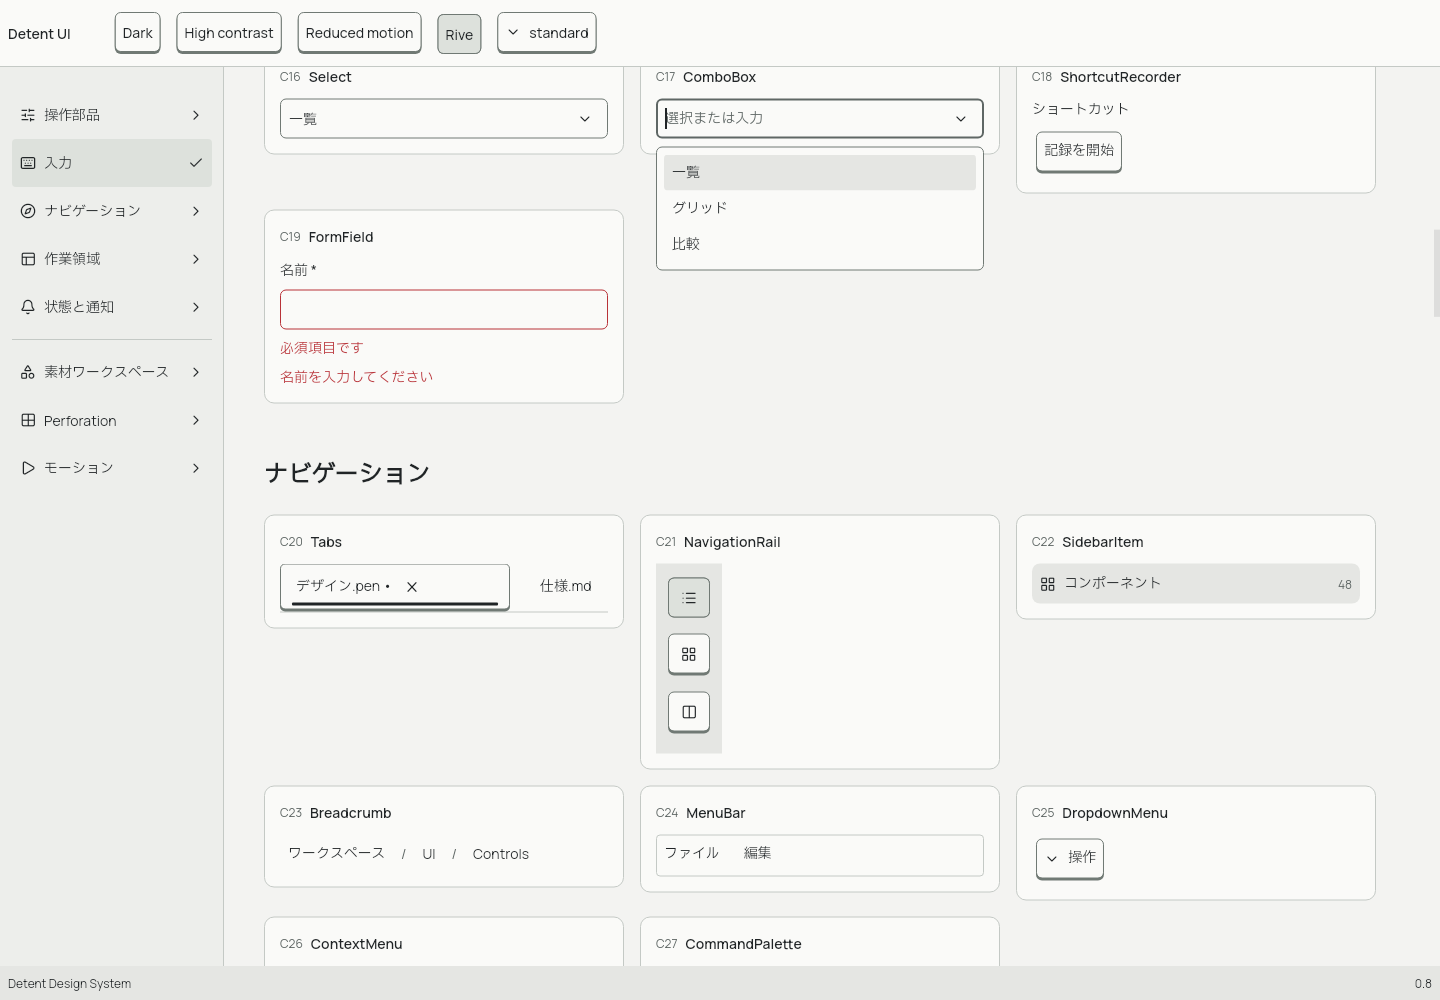
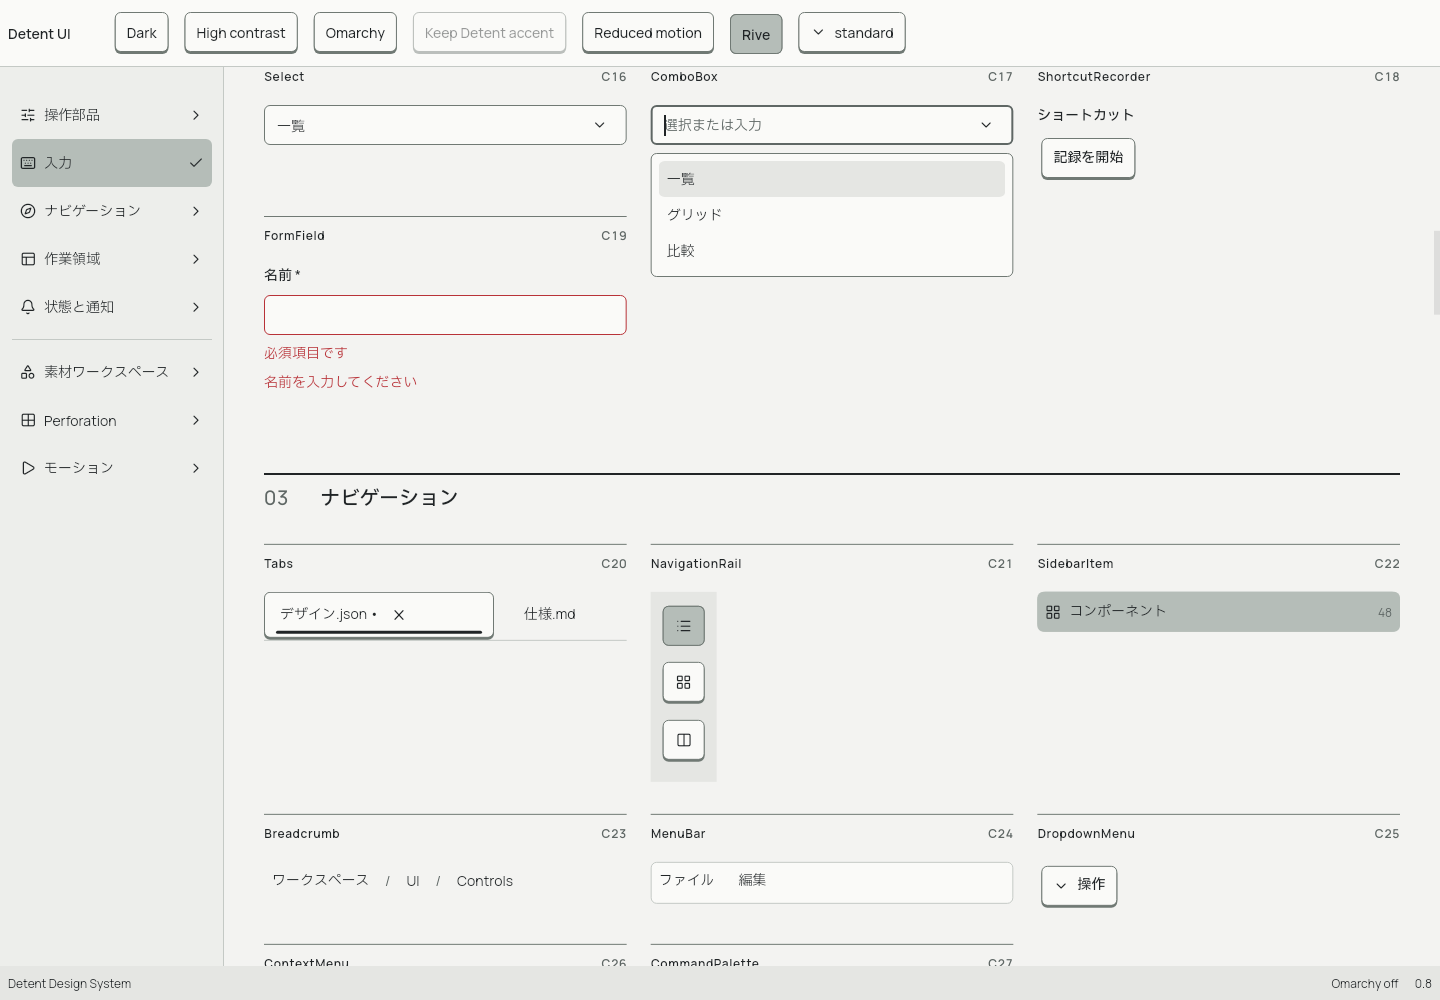
feat(example): present the gallery as a ruled spec sheet
Compared an instrument-panel layout (raised plates) with a drafting
sheet (rules only) on the same gallery screens and kept the sheet:
uneven card heights stop showing and only real controls keep depth.
Sections get a 2px rule and a 01-style index, components a hairline
rule with an engraved label and the C number at the right, in the
spirit of Teenage Engineering product pages. Cards fill even columns.

- Add DetentTypography.label (12/600, tracked, tabular figures).
- Frame the AppShell miniature so it reads as an example.
- Gallery tests load the Plex JP 500/600 weights for real rendering
  and also capture a 1024px shot.

diff --git a/example/lib/component_catalog.dart b/example/lib/component_catalog.dart
@@ -136,38 +136,33 @@ class _GalleryBodyState extends State<GalleryBody> {
       child: const Text('作業内容に未保存の変更があります。'),
     ),
   );
-  Widget card(int id, String label, Widget child, {double? height}) => SizedBox(
-    width: 360,
-    child: DetentSurface(
-      shape: RoundedRectangleBorder(
-        borderRadius: BorderRadius.circular(10),
-        side: BorderSide(color: DetentTheme.of(context).border),
+  // A spec sheet: each component is a cell under one rule, named in an
+  // engraved label with its catalogue number at the right edge. Only the
+  // controls themselves keep physical depth (DESIGN_SYSTEM.md §5.7).
+  Widget card(int id, String label, Widget child, {double? height}) {
+    final t = DetentTheme.of(context);
+    return DecoratedBox(
+      decoration: BoxDecoration(
+        border: Border(top: BorderSide(color: t.controlBorder)),
       ),
       child: Padding(
-        padding: const EdgeInsets.all(16),
+        padding: const EdgeInsets.only(top: 10, bottom: 8),
         child: Column(
           crossAxisAlignment: CrossAxisAlignment.stretch,
           mainAxisSize: MainAxisSize.min,
           children: [
             Row(
+              crossAxisAlignment: CrossAxisAlignment.baseline,
+              textBaseline: TextBaseline.alphabetic,
               children: [
+                Expanded(child: Text(label, style: t.textTheme.label)),
                 Text(
                   'C${id.toString().padLeft(2, '0')}',
-                  style: TextStyle(
-                    color: DetentTheme.of(context).muted,
-                    fontSize: 12,
-                  ),
-                ),
-                const SizedBox(width: 8),
-                Expanded(
-                  child: Text(
-                    label,
-                    style: const TextStyle(fontWeight: FontWeight.w600),
-                  ),
+                  style: t.textTheme.label.copyWith(color: t.muted),
                 ),
               ],
             ),
-            const SizedBox(height: 12),
+            const SizedBox(height: 20),
             Align(
               alignment: Alignment.topLeft,
               child: height == null
@@ -177,8 +172,9 @@ class _GalleryBodyState extends State<GalleryBody> {
           ],
         ),
       ),
-    ),
-  );
+    );
+  }
+
   @override
   Widget build(BuildContext context) {
     final opts = [
@@ -188,16 +184,40 @@ class _GalleryBodyState extends State<GalleryBody> {
     ];
     final theme = DetentTheme.of(context);
     Widget group(List<Widget> children, {String? title}) => Column(
-      crossAxisAlignment: CrossAxisAlignment.start,
+      crossAxisAlignment: CrossAxisAlignment.stretch,
       children: [
         if (title != null) ...[
-          Text(
-            title,
-            style: theme.textTheme.componentTitle.copyWith(color: theme.muted),
+          Row(
+            children: [
+              // A small square marker, like a printed index tab.
+              SizedBox.square(
+                dimension: 6,
+                child: ColoredBox(color: theme.ink),
+              ),
+              const SizedBox(width: 8),
+              Text(title, style: theme.textTheme.componentTitle),
+            ],
           ),
           const SizedBox(height: 16),
         ],
-        Wrap(spacing: 16, runSpacing: 16, children: children),
+        // Even columns from the available width instead of fixed 360px cards.
+        LayoutBuilder(
+          builder: (context, box) {
+            const gap = 24.0, minWidth = 300.0;
+            final columns = ((box.maxWidth + gap) / (minWidth + gap))
+                .floor()
+                .clamp(1, 4);
+            final width = (box.maxWidth - gap * (columns - 1)) / columns;
+            return Wrap(
+              spacing: gap,
+              runSpacing: 24,
+              children: [
+                for (final child in children)
+                  SizedBox(width: width, child: child),
+              ],
+            );
+          },
+        ),
       ],
     );
     Widget section(
@@ -206,12 +226,36 @@ class _GalleryBodyState extends State<GalleryBody> {
       bool showTitle = true,
     }) => Padding(
       key: _anchors[section],
-      padding: const EdgeInsets.only(top: 24, bottom: 32),
+      padding: const EdgeInsets.only(top: 24, bottom: 48),
       child: Column(
         crossAxisAlignment: CrossAxisAlignment.stretch,
-        spacing: 24,
+        spacing: 32,
         children: [
-          if (showTitle) Text(section.title, style: theme.textTheme.section),
+          if (showTitle)
+            DecoratedBox(
+              decoration: BoxDecoration(
+                border: Border(top: BorderSide(color: theme.ink, width: 2)),
+              ),
+              child: Padding(
+                padding: const EdgeInsets.only(top: 12),
+                child: Row(
+                  crossAxisAlignment: CrossAxisAlignment.baseline,
+                  textBaseline: TextBaseline.alphabetic,
+                  children: [
+                    SizedBox(
+                      width: 56,
+                      child: Text(
+                        (section.index + 1).toString().padLeft(2, '0'),
+                        style: theme.textTheme.readout.copyWith(
+                          color: theme.muted,
+                        ),
+                      ),
+                    ),
+                    Text(section.title, style: theme.textTheme.section),
+                  ],
+                ),
+              ),
+            ),
           ...children,
         ],
       ),
@@ -220,13 +264,26 @@ class _GalleryBodyState extends State<GalleryBody> {
     final content = Column(
       crossAxisAlignment: CrossAxisAlignment.stretch,
       children: [
-        Text('UIワークショップ', style: theme.textTheme.page),
-        const SizedBox(height: 8),
+        // Title block: a quiet spec line over one large heading.
+        Text(
+          'DETENT UI  /  COMPONENT WORKSHOP  /  ${_Section.values.length} SECTIONS',
+          style: theme.textTheme.label.copyWith(color: theme.muted),
+        ),
+        const SizedBox(height: 12),
+        Text(
+          'UIワークショップ',
+          style: theme.textTheme.page.copyWith(
+            fontSize: DetentTokens.primitive_typeSize_display,
+            height: 1.1,
+            letterSpacing: -1,
+          ),
+        ),
+        const SizedBox(height: 12),
         Text(
           'Detent UIの部品と画面作例',
           style: theme.textTheme.body.copyWith(color: theme.muted),
         ),
-        const SizedBox(height: 16),
+        const SizedBox(height: 40),
         section(_Section.controls, [
           group([
             card(
@@ -561,10 +618,21 @@ class _GalleryBodyState extends State<GalleryBody> {
             card(
               28,
               'AppShell',
-              const DetentAppShell(
-                navigation: Center(child: Text('Navigation')),
-                body: Center(child: Text('Workspace')),
-                statusBar: DetentStatusBar(children: [Text('準備完了')]),
+              // Framed so the miniature reads as an example, not the page.
+              DecoratedBox(
+                position: DecorationPosition.foreground,
+                decoration: BoxDecoration(
+                  border: Border.all(color: theme.controlBorder),
+                  borderRadius: BorderRadius.circular(DetentRadius.control),
+                ),
+                child: ClipRRect(
+                  borderRadius: BorderRadius.circular(DetentRadius.control),
+                  child: const DetentAppShell(
+                    navigation: Center(child: Text('Navigation')),
+                    body: Center(child: Text('Workspace')),
+                    statusBar: DetentStatusBar(children: [Text('準備完了')]),
+                  ),
+                ),
               ),
               height: 220,
             ),

diff --git a/example/test/gallery_test.dart b/example/test/gallery_test.dart
@@ -14,6 +14,11 @@ import '../lib/component_catalog.dart';
 // ignore: avoid_relative_lib_imports
 import '../lib/workshop_navigation.dart';
 
+/// Set with --dart-define=DETENT_PROPOSAL=a|b to keep proposal shots apart.
+const shotPrefix = bool.hasEnvironment('DETENT_PROPOSAL')
+    ? '${String.fromEnvironment('DETENT_PROPOSAL')}-'
+    : '';
+
 void main() {
   setUpAll(() async {
     final icons = FontLoader('packages/forui_lucide/ForuiLucideIcons')
@@ -26,6 +31,17 @@ void main() {
           'packages/detent_ui/assets/fonts/${family == 'Manrope' ? 'Manrope.ttf' : 'IBMPlexSansJP-Regular.ttf'}',
         ),
       );
+      // Load the bundled Japanese weights too, so 500/600 text is drawn
+      // with the real font instead of a synthesized bold.
+      if (family != 'Manrope') {
+        for (final weight in ['Medium', 'SemiBold']) {
+          loader.addFont(
+            rootBundle.load(
+              'packages/detent_ui/assets/fonts/IBMPlexSansJP-$weight.ttf',
+            ),
+          );
+        }
+      }
       await loader.load();
     }
   });
@@ -125,25 +141,26 @@ void main() {
         expect(find.text('素材編集ワークスペース').hitTestable(), findsOneWidget);
         expect(t.takeException(), isNull);
       }
-      if (width == 1440) {
-        Future<void> capture(String name) async {
-          await t.runAsync(
-            () => Future<void>.delayed(const Duration(milliseconds: 100)),
-          );
-          await t.pump();
-          await t.pump(const Duration(milliseconds: 400));
-          await t.runAsync(() async {
-            final render =
-                boundary.currentContext!.findRenderObject()!
-                    as RenderRepaintBoundary;
-            final img = await render.toImage();
-            final bytes = await img.toByteData(format: ui.ImageByteFormat.png);
-            File('/tmp/detent-gallery-$name.png')
-                .writeAsBytesSync(bytes!.buffer.asUint8List());
-            img.dispose();
-          });
-        }
+      Future<void> capture(String name) async {
+        await t.runAsync(
+          () => Future<void>.delayed(const Duration(milliseconds: 100)),
+        );
+        await t.pump();
+        await t.pump(const Duration(milliseconds: 400));
+        await t.runAsync(() async {
+          final render =
+              boundary.currentContext!.findRenderObject()!
+                  as RenderRepaintBoundary;
+          final img = await render.toImage();
+          final bytes = await img.toByteData(format: ui.ImageByteFormat.png);
+          File('/tmp/detent-gallery-$shotPrefix$name.png')
+              .writeAsBytesSync(bytes!.buffer.asUint8List());
+          img.dispose();
+        });
+      }
 
+      if (width == 1024) await capture('narrow');
+      if (width == 1440) {
         await capture('light');
         await t.tap(find.text('Rive'));
         await t.pump();

diff --git a/lib/src/foundation/theme.dart b/lib/src/foundation/theme.dart
@@ -90,6 +90,14 @@ class DetentTypography {
     height: DetentTokens.primitive_lineHeight_caption,
   );
 
+  /// Engraved labels on panels and spec sheets: 12 / 600, slightly
+  /// tracked, tabular figures. Keep to short names and numbers.
+  TextStyle get label => caption.copyWith(
+    fontWeight: FontWeight.w600,
+    letterSpacing: .6,
+    fontFeatures: const [FontFeature.tabularFigures()],
+  );
+
   /// Instrument values. 20 / 500 with tabular figures.
   TextStyle get readout => body.copyWith(
     fontSize: DetentTokens.primitive_typeSize_section,
